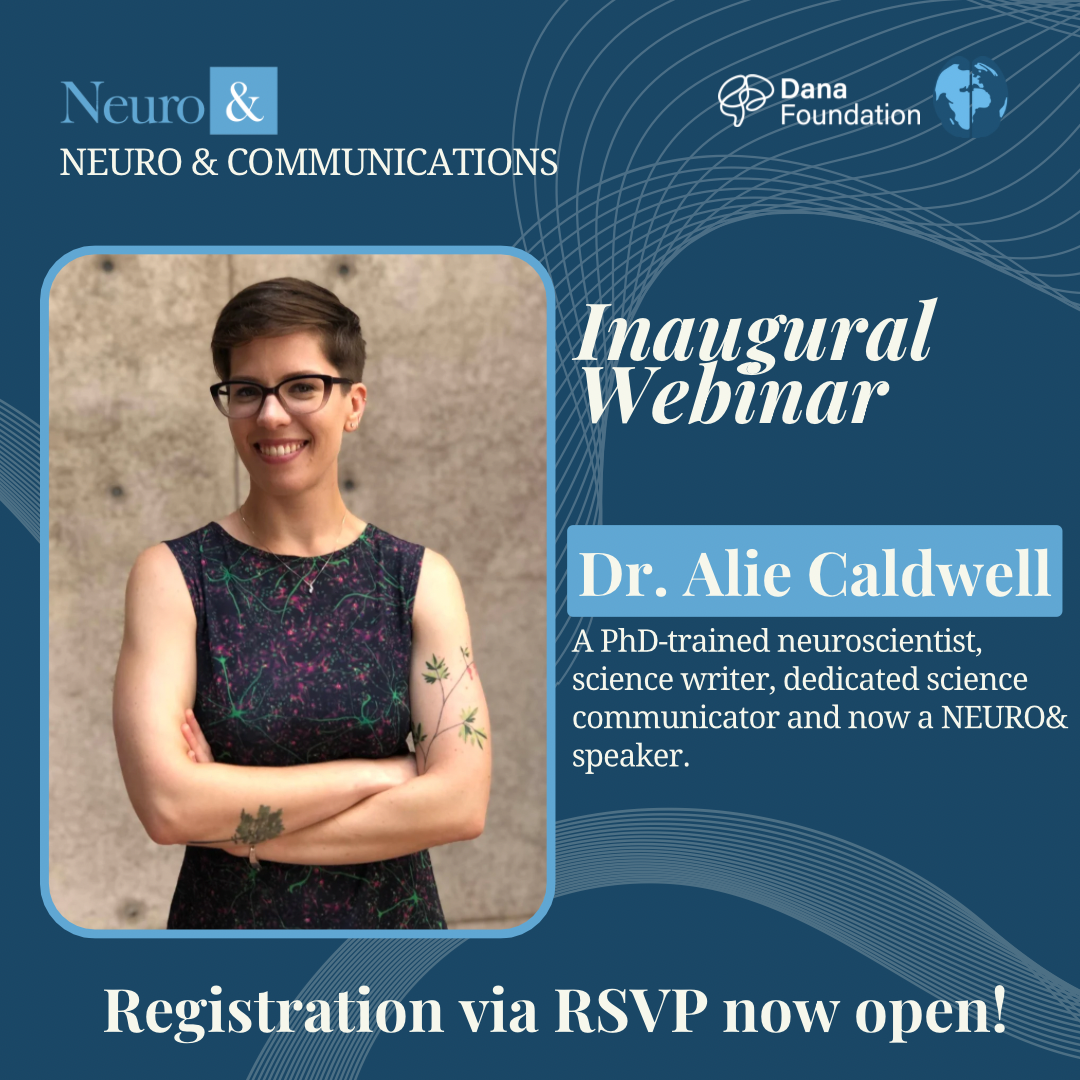
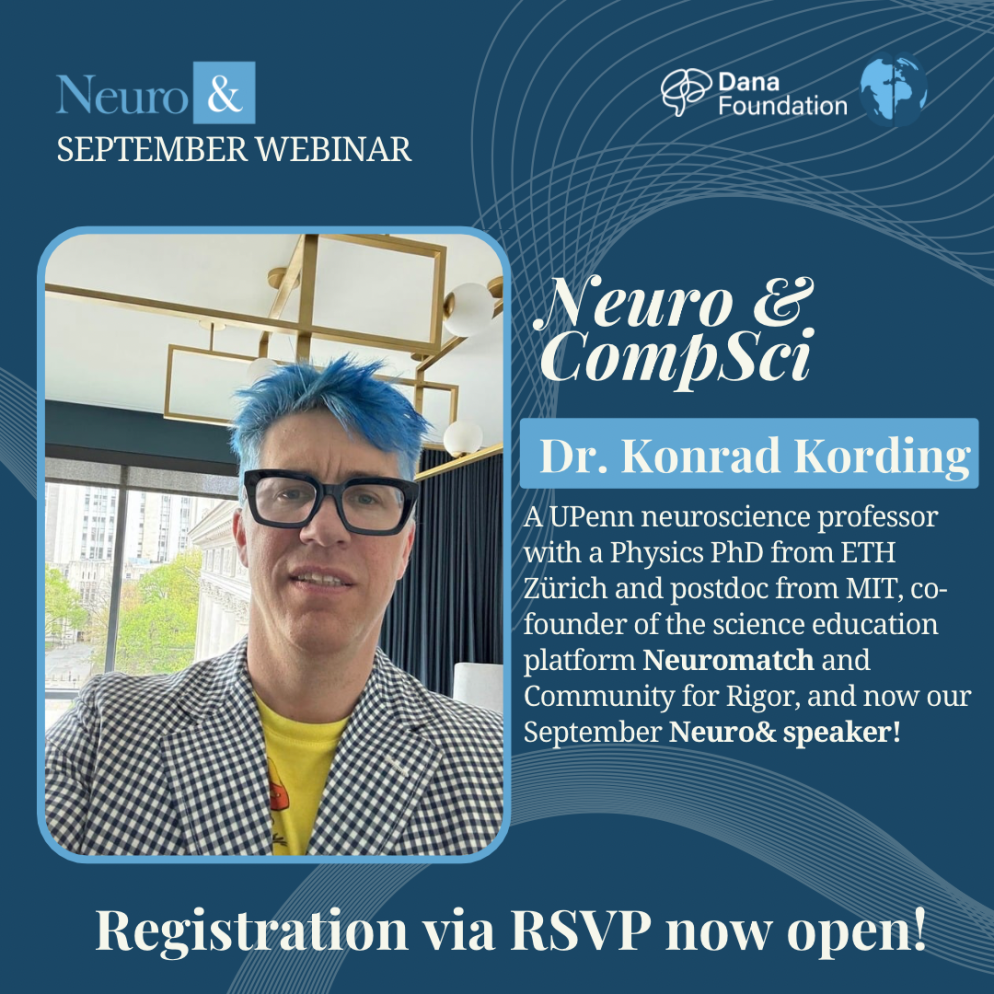
updated

diff --git a/src/neuroand.html b/src/neuroand.html
@@ -430,7 +430,7 @@
       </div>
       <div class="neuro-container02">
         <h1 class="neuro-text027">
-          <span>Upcoming Event: Neuro&Communications</span>
+          <span>Upcoming Event: Neuro&CompSci</span>
           <br />
           <br>
           <br>
@@ -443,19 +443,14 @@
         <span class="neuro-text030">
           <br>
           <span>
-            Neuro&Communications is the International Youth Neuroscience Association’s 
-            inaugural webinar of Neuro&, a career webinar series in collaboration with 
-            the Dana Foundation. The event will be held virtually on August 17th from 12 to 
-            1 PM EST. Neuro&Communications features distinguished neuroscientist and science 
-            writer Dr. Alie Caldwell. From being an editor for Mayo Clinic’s Department of 
-            Development to co-host of the award-winning YouTube channel Neuro Transmissions, 
-            Dr. Caldwell will share her career insights through an hour-long Zoom meeting 
-            open to youth worldwide. Participants will have the opportunity to interact 
-            directly with Dr. Caldwell and ask questions during the webinar. We encourage 
-            all those with an interest in the field to join us for this exciting opportunity
+            Neuro&CompSci with Dr. Konrad Kording
+
+            We’re back this September! Tune in to our Neuro& webinar this month featuring the fascinating field of computational neuroscience with Dr. Konrad Kording! Dr. Kording is a distinguished computational neuroscientist and professor at UPenn. His research on data science has been published in leading journals such as Nature and Nature Neuroscience. In addition, Dr. Kording is the co-founder of the computational science education company Neuromatch and the open science platform Community for Rigor. In his talk on Sunday, September 29th from 12-1 PM EST, Dr. Kording will share his extensive career journey and insights into succeeding in science through community. Participants will engage in an interactive discussion and have the chance to ask questions for Dr. Kording. IYNA chapter members will also receive points for participation by including their chapter IDs in their Zoom username. Individuals who display consistent engagement may even receive bonus points for their chapter!
+            
+            Learn more about the research Dr. Kording conducts here: https://kordinglab.com/ 
           </span>
         </span>
-        <a href="https://forms.gle/YpnvfVFQqDfDAysb7"
+        <a href="https://docs.google.com/forms/d/e/1FAIpQLSfm1FqO-M8pQGl5s9aRolwh1EP_wo2su2K-Pl3qR0jbBZIvFQ/viewform"
         target="_blank"
         rel="noreferrer noopener"
         class="neuro-link button"
